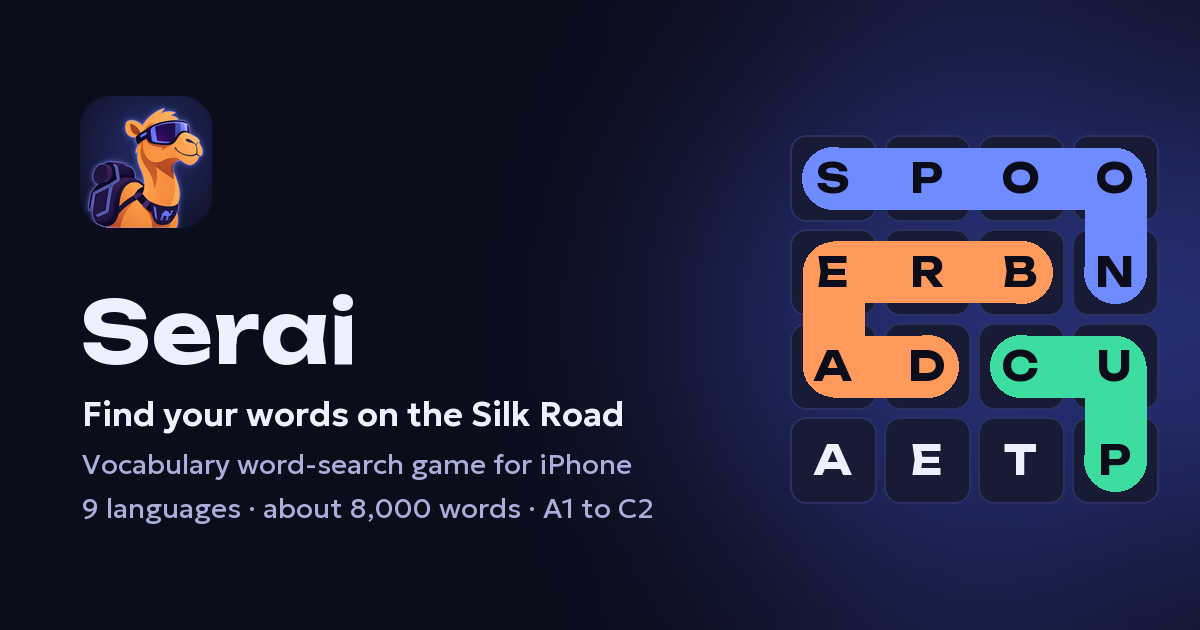
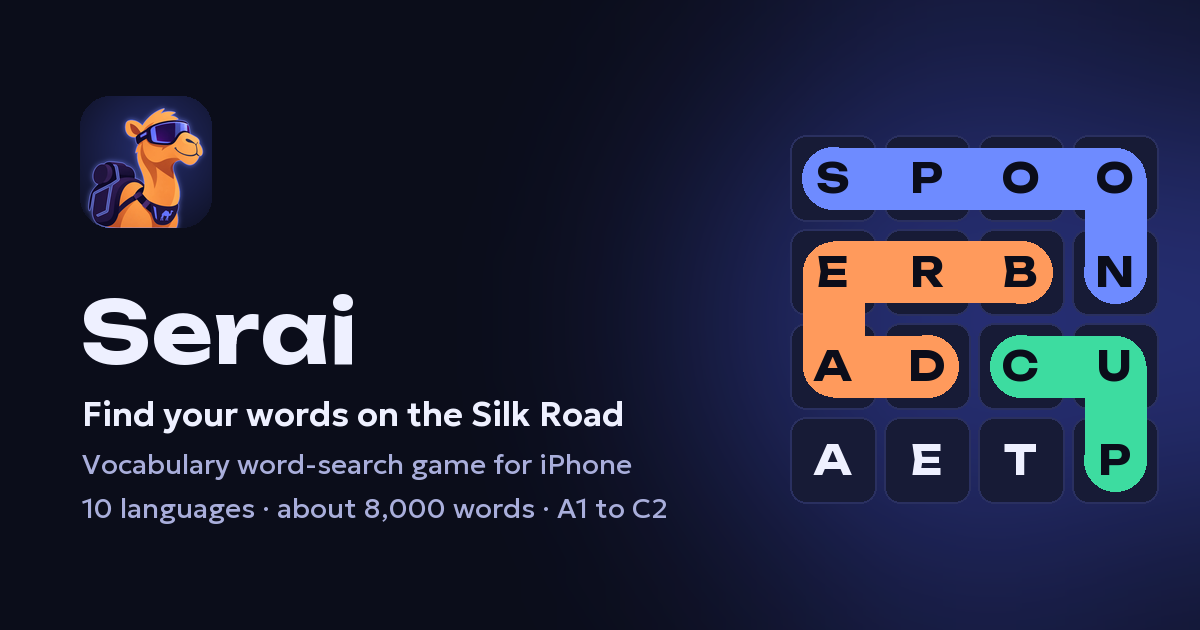
Italian: ten languages on the site
Language list with Italiano, texts, FAQ, structured data (inLanguage),
llms.txt and share image now say ten languages; language chips carry
their language codes.

Claude-Session: https://claude.ai/code/session_017wPtyryLLsN8FpsabSdn4q

Changed region(s): [[0.0617, 0.7841, 0.555, 0.8444]]

diff --git a/index.html b/index.html
@@ -3,12 +3,12 @@
 <head>
 <meta charset="utf-8">
 <meta name="viewport" content="width=device-width, initial-scale=1, viewport-fit=cover">
-<title>Serai – Vocabulary word-search game for iPhone in 9 languages</title>
-<meta name="description" content="Learn vocabulary with a word-search game: read a word in your language and swipe its translation through a board of letters. About 8,000 words, 9 languages, A1 to C2. Free for iPhone.">
+<title>Serai – Vocabulary word-search game for iPhone in 10 languages</title>
+<meta name="description" content="Learn vocabulary with a word-search game: read a word in your language and swipe its translation through a board of letters. About 8,000 words, 10 languages, A1 to C2. Free for iPhone.">
 <meta name="theme-color" content="#0B0D1A">
 <link rel="canonical" href="https://getserai.app/">
-<meta property="og:title" content="Serai – Vocabulary word-search game for iPhone in 9 languages">
-<meta property="og:description" content="Learn vocabulary with a word-search game: read a word in your language and swipe its translation through a board of letters. About 8,000 words, 9 languages, A1 to C2. Free for iPhone.">
+<meta property="og:title" content="Serai – Vocabulary word-search game for iPhone in 10 languages">
+<meta property="og:description" content="Learn vocabulary with a word-search game: read a word in your language and swipe its translation through a board of letters. About 8,000 words, 10 languages, A1 to C2. Free for iPhone.">
 <meta property="og:type" content="website">
 <meta property="og:site_name" content="Serai">
 <meta property="og:locale" content="en_US">
@@ -33,7 +33,7 @@ summary{cursor:pointer;list-style:none}summary::-webkit-details-marker{display:n
 details[open] summary svg{transform:rotate(180deg)}
 img{max-width:100%}
 </style>
-<script type="application/ld+json">{"@context": "https://schema.org", "@graph": [{"@type": "WebSite", "@id": "https://getserai.app/#website", "url": "https://getserai.app/", "name": "Serai", "inLanguage": "en", "publisher": {"@id": "https://getserai.app/#publisher"}}, {"@type": "Person", "@id": "https://getserai.app/#publisher", "name": "Christian Heuer", "email": "mailto:chris@getserai.app", "address": {"@type": "PostalAddress", "addressLocality": "Zollikon", "addressCountry": "CH"}}, {"@type": "MobileApplication", "@id": "https://getserai.app/#app", "name": "Serai", "alternateName": "Serai – Find your words on the Silk Road", "description": "A word-search game for learning vocabulary on iPhone: read a word in your language and swipe its translation through a board of letters. About 8,000 words in nine languages, CEFR levels A1 to C2.", "url": "https://getserai.app/", "image": "https://getserai.app/assets/icon-1024.png", "screenshot": "https://getserai.app/assets/og-image.png", "operatingSystem": "iOS 15.0 or later", "applicationCategory": "EducationalApplication", "applicationSubCategory": "Language learning, word game", "inLanguage": ["en", "de", "ru", "fr", "kk", "cs", "es", "zh-Hans", "ko"], "offers": [{"@type": "Offer", "price": "0", "priceCurrency": "EUR", "category": "free"}, {"@type": "Offer", "name": "The Taklamakan Crossing", "description": "Optional one-time purchase that adds description clues.", "price": "9.99", "priceCurrency": "EUR"}], "author": {"@id": "https://getserai.app/#publisher"}, "publisher": {"@id": "https://getserai.app/#publisher"}}, {"@type": "FAQPage", "@id": "https://getserai.app/#faq", "url": "https://getserai.app/", "mainEntity": [{"@type": "Question", "name": "What is Serai?", "acceptedAnswer": {"@type": "Answer", "text": "Serai is a word-search game for learning vocabulary on iPhone. You read a word in your own language, then find its translation on a board of letters by swiping through it. Words snake around corners, and every letter belongs to exactly one word."}}, {"@type": "Question", "name": "Which languages can I learn with Serai?", "acceptedAnswer": {"@type": "Answer", "text": "Serai has nine languages: English, German, Russian, French, Kazakh, Czech, Spanish, Chinese (Simplified, with pinyin) and Korean. You can learn from any of them into any other. The app itself is also available in these nine languages."}}, {"@type": "Question", "name": "How many words and which levels does Serai cover?", "acceptedAnswer": {"@type": "Answer", "text": "About 8,000 words from beginner to mastery, following the CEFR levels A1 to C2 and grouped into everyday topics. A three-minute placement test finds your starting level, and spaced review brings each word back just before you would forget it."}}, {"@type": "Question", "name": "Is Serai free?", "acceptedAnswer": {"@type": "Answer", "text": "Yes. Serai is free to download, with all languages, levels, the Daily Hunt and review included, and without ads. An optional one-time purchase, the expedition The Taklamakan Crossing (€9.99), adds description clues for players who want a bigger challenge."}}, {"@type": "Question", "name": "Do I need an account or an internet connection?", "acceptedAnswer": {"@type": "Answer", "text": "No. Serai works without an account and offline. Your progress is stored only on your iPhone; the app does not collect personal data or track you."}}, {"@type": "Question", "name": "Which devices does Serai run on?", "acceptedAnswer": {"@type": "Answer", "text": "Serai is made for iPhone and requires iOS 15 or later. It is coming soon to the App Store."}}]}]}</script>
+<script type="application/ld+json">{"@context": "https://schema.org", "@graph": [{"@type": "WebSite", "@id": "https://getserai.app/#website", "url": "https://getserai.app/", "name": "Serai", "inLanguage": "en", "publisher": {"@id": "https://getserai.app/#publisher"}}, {"@type": "Person", "@id": "https://getserai.app/#publisher", "name": "Christian Heuer", "email": "mailto:chris@getserai.app", "address": {"@type": "PostalAddress", "addressLocality": "Zollikon", "addressCountry": "CH"}}, {"@type": "MobileApplication", "@id": "https://getserai.app/#app", "name": "Serai", "alternateName": "Serai – Find your words on the Silk Road", "description": "A word-search game for learning vocabulary on iPhone: read a word in your language and swipe its translation through a board of letters. About 8,000 words in ten languages, CEFR levels A1 to C2.", "url": "https://getserai.app/", "image": "https://getserai.app/assets/icon-1024.png", "screenshot": "https://getserai.app/assets/og-image.png", "operatingSystem": "iOS 15.0 or later", "applicationCategory": "EducationalApplication", "applicationSubCategory": "Language learning, word game", "inLanguage": ["en", "de", "ru", "fr", "kk", "cs", "es", "zh-Hans", "ko", "it"], "offers": [{"@type": "Offer", "price": "0", "priceCurrency": "EUR", "category": "free"}, {"@type": "Offer", "name": "The Taklamakan Crossing", "description": "Optional one-time purchase that adds description clues.", "price": "9.99", "priceCurrency": "EUR"}], "author": {"@id": "https://getserai.app/#publisher"}, "publisher": {"@id": "https://getserai.app/#publisher"}}, {"@type": "FAQPage", "@id": "https://getserai.app/#faq", "url": "https://getserai.app/", "mainEntity": [{"@type": "Question", "name": "What is Serai?", "acceptedAnswer": {"@type": "Answer", "text": "Serai is a word-search game for learning vocabulary on iPhone. You read a word in your own language, then find its translation on a board of letters by swiping through it. Words snake around corners, and every letter belongs to exactly one word."}}, {"@type": "Question", "name": "Which languages can I learn with Serai?", "acceptedAnswer": {"@type": "Answer", "text": "Serai has ten languages: English, German, Russian, French, Kazakh, Czech, Spanish, Chinese (Simplified, with pinyin), Korean and Italian. You can learn from any of them into any other. The app itself is also available in these ten languages."}}, {"@type": "Question", "name": "How many words and which levels does Serai cover?", "acceptedAnswer": {"@type": "Answer", "text": "About 8,000 words from beginner to mastery, following the CEFR levels A1 to C2 and grouped into everyday topics. A three-minute placement test finds your starting level, and spaced review brings each word back just before you would forget it."}}, {"@type": "Question", "name": "Is Serai free?", "acceptedAnswer": {"@type": "Answer", "text": "Yes. Serai is free to download, with all languages, levels, the Daily Hunt and review included, and without ads. An optional one-time purchase, the expedition The Taklamakan Crossing (€9.99), adds description clues for players who want a bigger challenge."}}, {"@type": "Question", "name": "Do I need an account or an internet connection?", "acceptedAnswer": {"@type": "Answer", "text": "No. Serai works without an account and offline. Your progress is stored only on your iPhone; the app does not collect personal data or track you."}}, {"@type": "Question", "name": "Which devices does Serai run on?", "acceptedAnswer": {"@type": "Answer", "text": "Serai is made for iPhone and requires iOS 15 or later. It is coming soon to the App Store."}}]}]}</script>
 </head>
 <body>
 <div style="background: #0B0D1A; color: #EEF0FF; font-family: Geologica, system-ui, sans-serif; min-height: 100vh"><div style="max-width: 1120px; margin: 0 auto; padding: 0 24px"><header style="display: flex; flex-wrap: wrap; align-items: center; gap: 12px 28px; padding: 20px 0">
@@ -49,7 +49,7 @@ img{max-width:100%}
 <p style="margin: 22px 0 0; font-size: 20px; line-height: 1.5; color: #A9AEDB; max-width: 540px">Read a word in your language, then swipe its translation through a board of letters. A few minutes a day, about 8,000 words from beginner to mastery.</p>
 <div style="display: flex; flex-wrap: wrap; align-items: center; gap: 14px 22px; margin-top: 32px"><a aria-label="Coming soon on the App Store" style="display: inline-flex; align-items: center; gap: 10px; min-height: 52px; padding: 0 20px; border-radius: 14px; background: #EEF0FF; color: #0B0D1A; font-family: Geologica, sans-serif">
 <svg width="20" height="24" viewBox="0 0 20 24" aria-hidden="true"><path d="M16.5 12.7c0-2.6 2.1-3.8 2.2-3.9-1.2-1.8-3.1-2-3.7-2-1.6-.2-3.1.9-3.9.9-.8 0-2-.9-3.4-.9-1.7 0-3.3 1-4.2 2.6-1.8 3.1-.5 7.7 1.3 10.2.9 1.2 1.9 2.6 3.2 2.6 1.3-.1 1.8-.8 3.3-.8 1.6 0 2 .8 3.4.8 1.4 0 2.3-1.3 3.1-2.5 1-1.4 1.4-2.8 1.4-2.9 0 0-2.7-1-2.7-4.1zM13.9 4.9c.7-.9 1.2-2.1 1.1-3.3-1 0-2.3.7-3 1.6-.7.8-1.3 2-1.1 3.2 1.1.1 2.3-.6 3-1.5z" fill="#0B0D1A"></path></svg>
-<span style="display: flex; flex-direction: column; line-height: 1.1"><span style="font-size: 11px">Coming soon on the</span><span style="font-size: 18px; font-weight: 600">App Store</span></span></a><span style="font-size: 15px; color: #A9AEDB">Free · iPhone · 9 languages</span></div>
+<span style="display: flex; flex-direction: column; line-height: 1.1"><span style="font-size: 11px">Coming soon on the</span><span style="font-size: 18px; font-weight: 600">App Store</span></span></a><span style="font-size: 15px; color: #A9AEDB">Free · iPhone · 10 languages</span></div>
 </div>
 <div style="flex: 1 1 300px; display: flex; justify-content: center"><div style="position: relative; width: 300px; max-width: 100%; aspect-ratio: 300 / 610; border-radius: 46px; background: #05060E; border: 1px solid #252A50; padding: 14px; box-sizing: border-box; box-shadow: 0 30px 80px rgba(124, 140, 255, 0.25)">
 <div style="height: 100%; border-radius: 34px; background: #0B0D1A; display: flex; flex-direction: column; align-items: center; padding: 46px 16px 16px; box-sizing: border-box; gap: 14px">
@@ -94,8 +94,8 @@ img{max-width:100%}
 <svg width="28" height="28" viewBox="0 0 24 24" fill="none" stroke="#7C8CFF" stroke-width="1.8" stroke-linecap="round" stroke-linejoin="round" aria-hidden="true"><rect x="5" y="10" width="14" height="11" rx="2"></rect><path d="M8 10V7a4 4 0 0 1 8 0v3"></path></svg>
 <h3 style="font-family: Unbounded, sans-serif; font-weight: 700; font-size: 17px; margin: 14px 0 0">Yours alone</h3>
 <p style="margin: 8px 0 0; font-size: 15px; line-height: 1.5; color: #A9AEDB">No account, no ads, no tracking. Your progress stays on your iPhone.</p></div>
-</div></section><section id="languages" style="padding-top: 88px"><h2 style="font-family: Unbounded, sans-serif; font-weight: 700; font-size: clamp(28px, 3.4vw, 40px); line-height: 1.15; margin: 0">Nine languages, any direction</h2><p style="margin: 14px 0 0; font-size: 18px; line-height: 1.5; color: #A9AEDB; max-width: 640px">Learn from the language you speak into any of the others. Chinese and Korean fill one character or syllable per cell, with pinyin once you find a word.</p>
-<ul style="list-style: none; padding: 0; margin: 32px 0 0; display: flex; flex-wrap: wrap; gap: 12px"><li lang="" style="padding: 12px 18px; border-radius: 999px; border: 1px solid #252A50; background: #14182E; font-size: 17px"><span style="font-weight: 600">English</span><span style="color: #A9AEDB; font-size: 14px; margin-left: 8px">English</span></li><li lang="" style="padding: 12px 18px; border-radius: 999px; border: 1px solid #252A50; background: #14182E; font-size: 17px"><span style="font-weight: 600">Deutsch</span><span style="color: #A9AEDB; font-size: 14px; margin-left: 8px">German</span></li><li lang="" style="padding: 12px 18px; border-radius: 999px; border: 1px solid #252A50; background: #14182E; font-size: 17px"><span style="font-weight: 600">Русский</span><span style="color: #A9AEDB; font-size: 14px; margin-left: 8px">Russian</span></li><li lang="" style="padding: 12px 18px; border-radius: 999px; border: 1px solid #252A50; background: #14182E; font-size: 17px"><span style="font-weight: 600">Français</span><span style="color: #A9AEDB; font-size: 14px; margin-left: 8px">French</span></li><li lang="" style="padding: 12px 18px; border-radius: 999px; border: 1px solid #252A50; background: #14182E; font-size: 17px"><span style="font-weight: 600">Қазақша</span><span style="color: #A9AEDB; font-size: 14px; margin-left: 8px">Kazakh</span></li><li lang="" style="padding: 12px 18px; border-radius: 999px; border: 1px solid #252A50; background: #14182E; font-size: 17px"><span style="font-weight: 600">Čeština</span><span style="color: #A9AEDB; font-size: 14px; margin-left: 8px">Czech</span></li><li lang="" style="padding: 12px 18px; border-radius: 999px; border: 1px solid #252A50; background: #14182E; font-size: 17px"><span style="font-weight: 600">Español</span><span style="color: #A9AEDB; font-size: 14px; margin-left: 8px">Spanish</span></li><li lang="" style="padding: 12px 18px; border-radius: 999px; border: 1px solid #252A50; background: #14182E; font-size: 17px"><span style="font-weight: 600">中文</span><span style="color: #A9AEDB; font-size: 14px; margin-left: 8px">Chinese</span></li><li lang="" style="padding: 12px 18px; border-radius: 999px; border: 1px solid #252A50; background: #14182E; font-size: 17px"><span style="font-weight: 600">한국어</span><span style="color: #A9AEDB; font-size: 14px; margin-left: 8px">Korean</span></li></ul></section><section id="journey" style="padding-top: 88px"><h2 style="font-family: Unbounded, sans-serif; font-weight: 700; font-size: clamp(28px, 3.4vw, 40px); line-height: 1.15; margin: 0">From Wayfarer to Keeper of the Serai</h2><p style="margin: 14px 0 0; font-size: 18px; line-height: 1.5; color: #A9AEDB; max-width: 640px">Pass a level and earn its badge, from your first serai to the keeper of the caravanserai. Every badge is also a Game Center achievement.</p>
+</div></section><section id="languages" style="padding-top: 88px"><h2 style="font-family: Unbounded, sans-serif; font-weight: 700; font-size: clamp(28px, 3.4vw, 40px); line-height: 1.15; margin: 0">Ten languages, any direction</h2><p style="margin: 14px 0 0; font-size: 18px; line-height: 1.5; color: #A9AEDB; max-width: 640px">Learn from the language you speak into any of the others. Chinese and Korean fill one character or syllable per cell, with pinyin once you find a word.</p>
+<ul style="list-style: none; padding: 0; margin: 32px 0 0; display: flex; flex-wrap: wrap; gap: 12px"><li style="padding: 12px 18px; border-radius: 999px; border: 1px solid #252A50; background: #14182E; font-size: 17px"><span lang="en" style="font-weight: 600">English</span><span style="color: #A9AEDB; font-size: 14px; margin-left: 8px">English</span></li><li style="padding: 12px 18px; border-radius: 999px; border: 1px solid #252A50; background: #14182E; font-size: 17px"><span lang="de" style="font-weight: 600">Deutsch</span><span style="color: #A9AEDB; font-size: 14px; margin-left: 8px">German</span></li><li style="padding: 12px 18px; border-radius: 999px; border: 1px solid #252A50; background: #14182E; font-size: 17px"><span lang="ru" style="font-weight: 600">Русский</span><span style="color: #A9AEDB; font-size: 14px; margin-left: 8px">Russian</span></li><li style="padding: 12px 18px; border-radius: 999px; border: 1px solid #252A50; background: #14182E; font-size: 17px"><span lang="fr" style="font-weight: 600">Français</span><span style="color: #A9AEDB; font-size: 14px; margin-left: 8px">French</span></li><li style="padding: 12px 18px; border-radius: 999px; border: 1px solid #252A50; background: #14182E; font-size: 17px"><span lang="kk" style="font-weight: 600">Қазақша</span><span style="color: #A9AEDB; font-size: 14px; margin-left: 8px">Kazakh</span></li><li style="padding: 12px 18px; border-radius: 999px; border: 1px solid #252A50; background: #14182E; font-size: 17px"><span lang="cs" style="font-weight: 600">Čeština</span><span style="color: #A9AEDB; font-size: 14px; margin-left: 8px">Czech</span></li><li style="padding: 12px 18px; border-radius: 999px; border: 1px solid #252A50; background: #14182E; font-size: 17px"><span lang="es" style="font-weight: 600">Español</span><span style="color: #A9AEDB; font-size: 14px; margin-left: 8px">Spanish</span></li><li style="padding: 12px 18px; border-radius: 999px; border: 1px solid #252A50; background: #14182E; font-size: 17px"><span lang="zh-Hans" style="font-weight: 600">中文</span><span style="color: #A9AEDB; font-size: 14px; margin-left: 8px">Chinese</span></li><li style="padding: 12px 18px; border-radius: 999px; border: 1px solid #252A50; background: #14182E; font-size: 17px"><span lang="ko" style="font-weight: 600">한국어</span><span style="color: #A9AEDB; font-size: 14px; margin-left: 8px">Korean</span></li><li style="padding: 12px 18px; border-radius: 999px; border: 1px solid #252A50; background: #14182E; font-size: 17px"><span lang="it" style="font-weight: 600">Italiano</span><span style="color: #A9AEDB; font-size: 14px; margin-left: 8px">Italian</span></li></ul></section><section id="journey" style="padding-top: 88px"><h2 style="font-family: Unbounded, sans-serif; font-weight: 700; font-size: clamp(28px, 3.4vw, 40px); line-height: 1.15; margin: 0">From Wayfarer to Keeper of the Serai</h2><p style="margin: 14px 0 0; font-size: 18px; line-height: 1.5; color: #A9AEDB; max-width: 640px">Pass a level and earn its badge, from your first serai to the keeper of the caravanserai. Every badge is also a Game Center achievement.</p>
 <div style="display: grid; grid-template-columns: repeat(auto-fit, minmax(150px, 1fr)); gap: 18px; margin-top: 36px"><figure style="margin: 0; text-align: center"><img width="150" height="150" loading="lazy" src="/assets/badges/wayfarer.png" alt="Wayfarer badge" style="width: 100%; max-width: 150px; aspect-ratio: 1; border-radius: 22%"><figcaption style="margin-top: 12px"><span style="display: block; font-family: Unbounded, sans-serif; font-weight: 700; font-size: 15px">Wayfarer</span><span style="font-size: 13px; color: #A9AEDB">Level A1</span></figcaption></figure><figure style="margin: 0; text-align: center"><img width="150" height="150" loading="lazy" src="/assets/badges/trader.png" alt="Trader badge" style="width: 100%; max-width: 150px; aspect-ratio: 1; border-radius: 22%"><figcaption style="margin-top: 12px"><span style="display: block; font-family: Unbounded, sans-serif; font-weight: 700; font-size: 15px">Trader</span><span style="font-size: 13px; color: #A9AEDB">Level A2</span></figcaption></figure><figure style="margin: 0; text-align: center"><img width="150" height="150" loading="lazy" src="/assets/badges/caravaneer.png" alt="Caravaneer badge" style="width: 100%; max-width: 150px; aspect-ratio: 1; border-radius: 22%"><figcaption style="margin-top: 12px"><span style="display: block; font-family: Unbounded, sans-serif; font-weight: 700; font-size: 15px">Caravaneer</span><span style="font-size: 13px; color: #A9AEDB">Level B1</span></figcaption></figure><figure style="margin: 0; text-align: center"><img width="150" height="150" loading="lazy" src="/assets/badges/interpreter.png" alt="Interpreter badge" style="width: 100%; max-width: 150px; aspect-ratio: 1; border-radius: 22%"><figcaption style="margin-top: 12px"><span style="display: block; font-family: Unbounded, sans-serif; font-weight: 700; font-size: 15px">Interpreter</span><span style="font-size: 13px; color: #A9AEDB">Level B2</span></figcaption></figure><figure style="margin: 0; text-align: center"><img width="150" height="150" loading="lazy" src="/assets/badges/envoy.png" alt="Envoy badge" style="width: 100%; max-width: 150px; aspect-ratio: 1; border-radius: 22%"><figcaption style="margin-top: 12px"><span style="display: block; font-family: Unbounded, sans-serif; font-weight: 700; font-size: 15px">Envoy</span><span style="font-size: 13px; color: #A9AEDB">Level C1</span></figcaption></figure><figure style="margin: 0; text-align: center"><img width="150" height="150" loading="lazy" src="/assets/badges/keeper.png" alt="Keeper of the Serai badge" style="width: 100%; max-width: 150px; aspect-ratio: 1; border-radius: 22%"><figcaption style="margin-top: 12px"><span style="display: block; font-family: Unbounded, sans-serif; font-weight: 700; font-size: 15px">Keeper of the Serai</span><span style="font-size: 13px; color: #A9AEDB">Level C2</span></figcaption></figure></div></section><section style="margin-top: 88px; border-radius: 28px; padding: clamp(28px, 4vw, 48px); background: #161B3D; border: 1px solid #3B44A0; display: flex; flex-wrap: wrap; gap: 32px; align-items: center">
 <div style="flex: 999 1 420px; min-width: 0">
 <p style="margin: 0; font-family: Unbounded, sans-serif; font-weight: 600; font-size: 12px; letter-spacing: 2px; color: #FF9A5C">EXPEDITION · ONE-TIME PURCHASE</p>
@@ -107,7 +107,7 @@ img{max-width:100%}
 <div style="margin-top: 6px; font-size: 19px; font-weight: 600">You eat soup with it</div>
 <div style="margin-top: 10px; font-family: Unbounded, sans-serif; letter-spacing: 6px; color: #A9AEDB">_ _ _ _ _</div>
 </div></section><section id="faq" style="padding-top: 88px"><h2 style="font-family: Unbounded, sans-serif; font-weight: 700; font-size: clamp(28px, 3.4vw, 40px); line-height: 1.15; margin: 0">Questions and answers</h2>
-<dl style="margin: 32px 0 0; display: grid; grid-template-columns: repeat(auto-fit, minmax(300px, 1fr)); gap: 16px"><div style="padding: 22px; border-radius: 20px; border: 1px solid #252A50"><dt style="font-family: Unbounded, sans-serif; font-weight: 700; font-size: 17px; line-height: 1.3">What is Serai?</dt><dd style="margin: 10px 0 0; font-size: 16px; line-height: 1.55; color: #A9AEDB">Serai is a word-search game for learning vocabulary on iPhone. You read a word in your own language, then find its translation on a board of letters by swiping through it. Words snake around corners, and every letter belongs to exactly one word.</dd></div><div style="padding: 22px; border-radius: 20px; border: 1px solid #252A50"><dt style="font-family: Unbounded, sans-serif; font-weight: 700; font-size: 17px; line-height: 1.3">Which languages can I learn with Serai?</dt><dd style="margin: 10px 0 0; font-size: 16px; line-height: 1.55; color: #A9AEDB">Serai has nine languages: English, German, Russian, French, Kazakh, Czech, Spanish, Chinese (Simplified, with pinyin) and Korean. You can learn from any of them into any other. The app itself is also available in these nine languages.</dd></div><div style="padding: 22px; border-radius: 20px; border: 1px solid #252A50"><dt style="font-family: Unbounded, sans-serif; font-weight: 700; font-size: 17px; line-height: 1.3">How many words and which levels does Serai cover?</dt><dd style="margin: 10px 0 0; font-size: 16px; line-height: 1.55; color: #A9AEDB">About 8,000 words from beginner to mastery, following the CEFR levels A1 to C2 and grouped into everyday topics. A three-minute placement test finds your starting level, and spaced review brings each word back just before you would forget it.</dd></div><div style="padding: 22px; border-radius: 20px; border: 1px solid #252A50"><dt style="font-family: Unbounded, sans-serif; font-weight: 700; font-size: 17px; line-height: 1.3">Is Serai free?</dt><dd style="margin: 10px 0 0; font-size: 16px; line-height: 1.55; color: #A9AEDB">Yes. Serai is free to download, with all languages, levels, the Daily Hunt and review included, and without ads. An optional one-time purchase, the expedition The Taklamakan Crossing (€9.99), adds description clues for players who want a bigger challenge.</dd></div><div style="padding: 22px; border-radius: 20px; border: 1px solid #252A50"><dt style="font-family: Unbounded, sans-serif; font-weight: 700; font-size: 17px; line-height: 1.3">Do I need an account or an internet connection?</dt><dd style="margin: 10px 0 0; font-size: 16px; line-height: 1.55; color: #A9AEDB">No. Serai works without an account and offline. Your progress is stored only on your iPhone; the app does not collect personal data or track you.</dd></div><div style="padding: 22px; border-radius: 20px; border: 1px solid #252A50"><dt style="font-family: Unbounded, sans-serif; font-weight: 700; font-size: 17px; line-height: 1.3">Which devices does Serai run on?</dt><dd style="margin: 10px 0 0; font-size: 16px; line-height: 1.55; color: #A9AEDB">Serai is made for iPhone and requires iOS 15 or later. It is coming soon to the App Store.</dd></div></dl></section>
+<dl style="margin: 32px 0 0; display: grid; grid-template-columns: repeat(auto-fit, minmax(300px, 1fr)); gap: 16px"><div style="padding: 22px; border-radius: 20px; border: 1px solid #252A50"><dt style="font-family: Unbounded, sans-serif; font-weight: 700; font-size: 17px; line-height: 1.3">What is Serai?</dt><dd style="margin: 10px 0 0; font-size: 16px; line-height: 1.55; color: #A9AEDB">Serai is a word-search game for learning vocabulary on iPhone. You read a word in your own language, then find its translation on a board of letters by swiping through it. Words snake around corners, and every letter belongs to exactly one word.</dd></div><div style="padding: 22px; border-radius: 20px; border: 1px solid #252A50"><dt style="font-family: Unbounded, sans-serif; font-weight: 700; font-size: 17px; line-height: 1.3">Which languages can I learn with Serai?</dt><dd style="margin: 10px 0 0; font-size: 16px; line-height: 1.55; color: #A9AEDB">Serai has ten languages: English, German, Russian, French, Kazakh, Czech, Spanish, Chinese (Simplified, with pinyin), Korean and Italian. You can learn from any of them into any other. The app itself is also available in these ten languages.</dd></div><div style="padding: 22px; border-radius: 20px; border: 1px solid #252A50"><dt style="font-family: Unbounded, sans-serif; font-weight: 700; font-size: 17px; line-height: 1.3">How many words and which levels does Serai cover?</dt><dd style="margin: 10px 0 0; font-size: 16px; line-height: 1.55; color: #A9AEDB">About 8,000 words from beginner to mastery, following the CEFR levels A1 to C2 and grouped into everyday topics. A three-minute placement test finds your starting level, and spaced review brings each word back just before you would forget it.</dd></div><div style="padding: 22px; border-radius: 20px; border: 1px solid #252A50"><dt style="font-family: Unbounded, sans-serif; font-weight: 700; font-size: 17px; line-height: 1.3">Is Serai free?</dt><dd style="margin: 10px 0 0; font-size: 16px; line-height: 1.55; color: #A9AEDB">Yes. Serai is free to download, with all languages, levels, the Daily Hunt and review included, and without ads. An optional one-time purchase, the expedition The Taklamakan Crossing (€9.99), adds description clues for players who want a bigger challenge.</dd></div><div style="padding: 22px; border-radius: 20px; border: 1px solid #252A50"><dt style="font-family: Unbounded, sans-serif; font-weight: 700; font-size: 17px; line-height: 1.3">Do I need an account or an internet connection?</dt><dd style="margin: 10px 0 0; font-size: 16px; line-height: 1.55; color: #A9AEDB">No. Serai works without an account and offline. Your progress is stored only on your iPhone; the app does not collect personal data or track you.</dd></div><div style="padding: 22px; border-radius: 20px; border: 1px solid #252A50"><dt style="font-family: Unbounded, sans-serif; font-weight: 700; font-size: 17px; line-height: 1.3">Which devices does Serai run on?</dt><dd style="margin: 10px 0 0; font-size: 16px; line-height: 1.55; color: #A9AEDB">Serai is made for iPhone and requires iOS 15 or later. It is coming soon to the App Store.</dd></div></dl></section>
 <section style="padding-top: 96px; text-align: center; display: flex; flex-direction: column; align-items: center; gap: 22px">
 <img width="96" height="96" src="/assets/icon-512.png" alt="Serai app icon" style="width: 96px; height: 96px; border-radius: 22px; box-shadow: 0 16px 50px rgba(124, 140, 255, 0.3)">
 <h2 style="font-family: Unbounded, sans-serif; font-weight: 700; font-size: clamp(28px, 3.6vw, 44px); margin: 0">Your caravan is waiting</h2>
